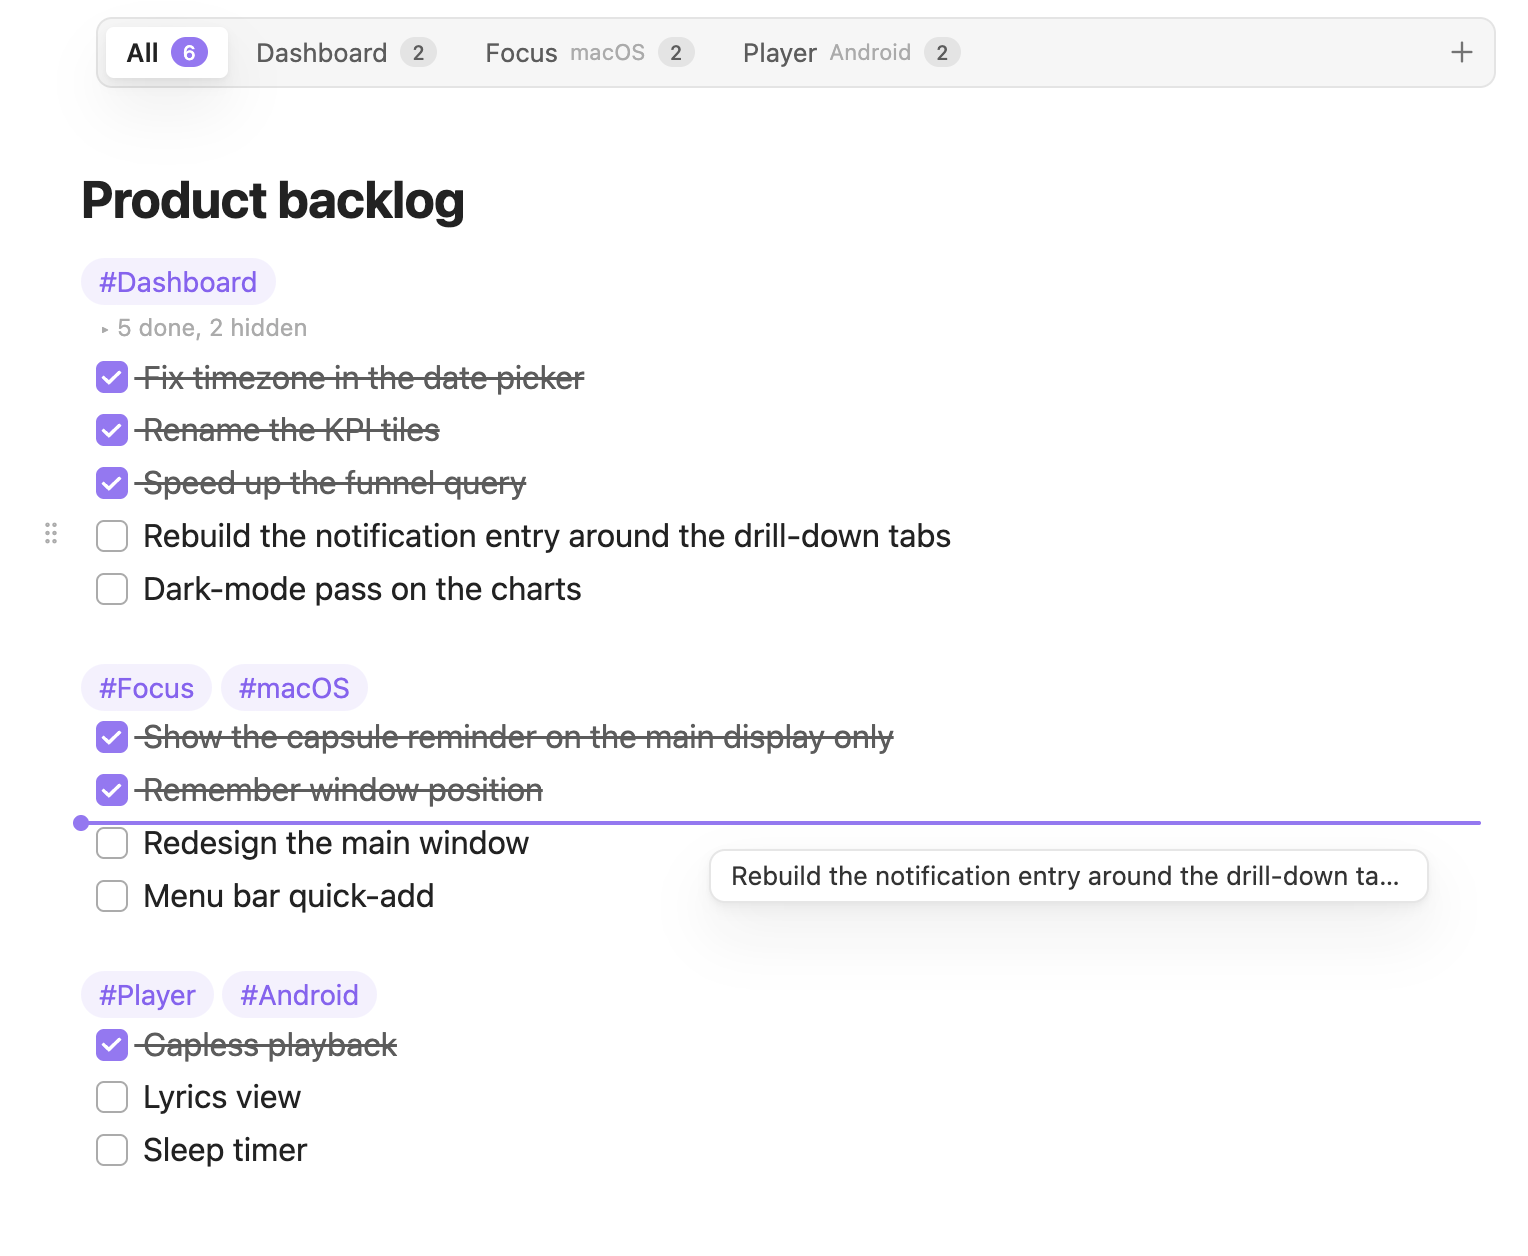
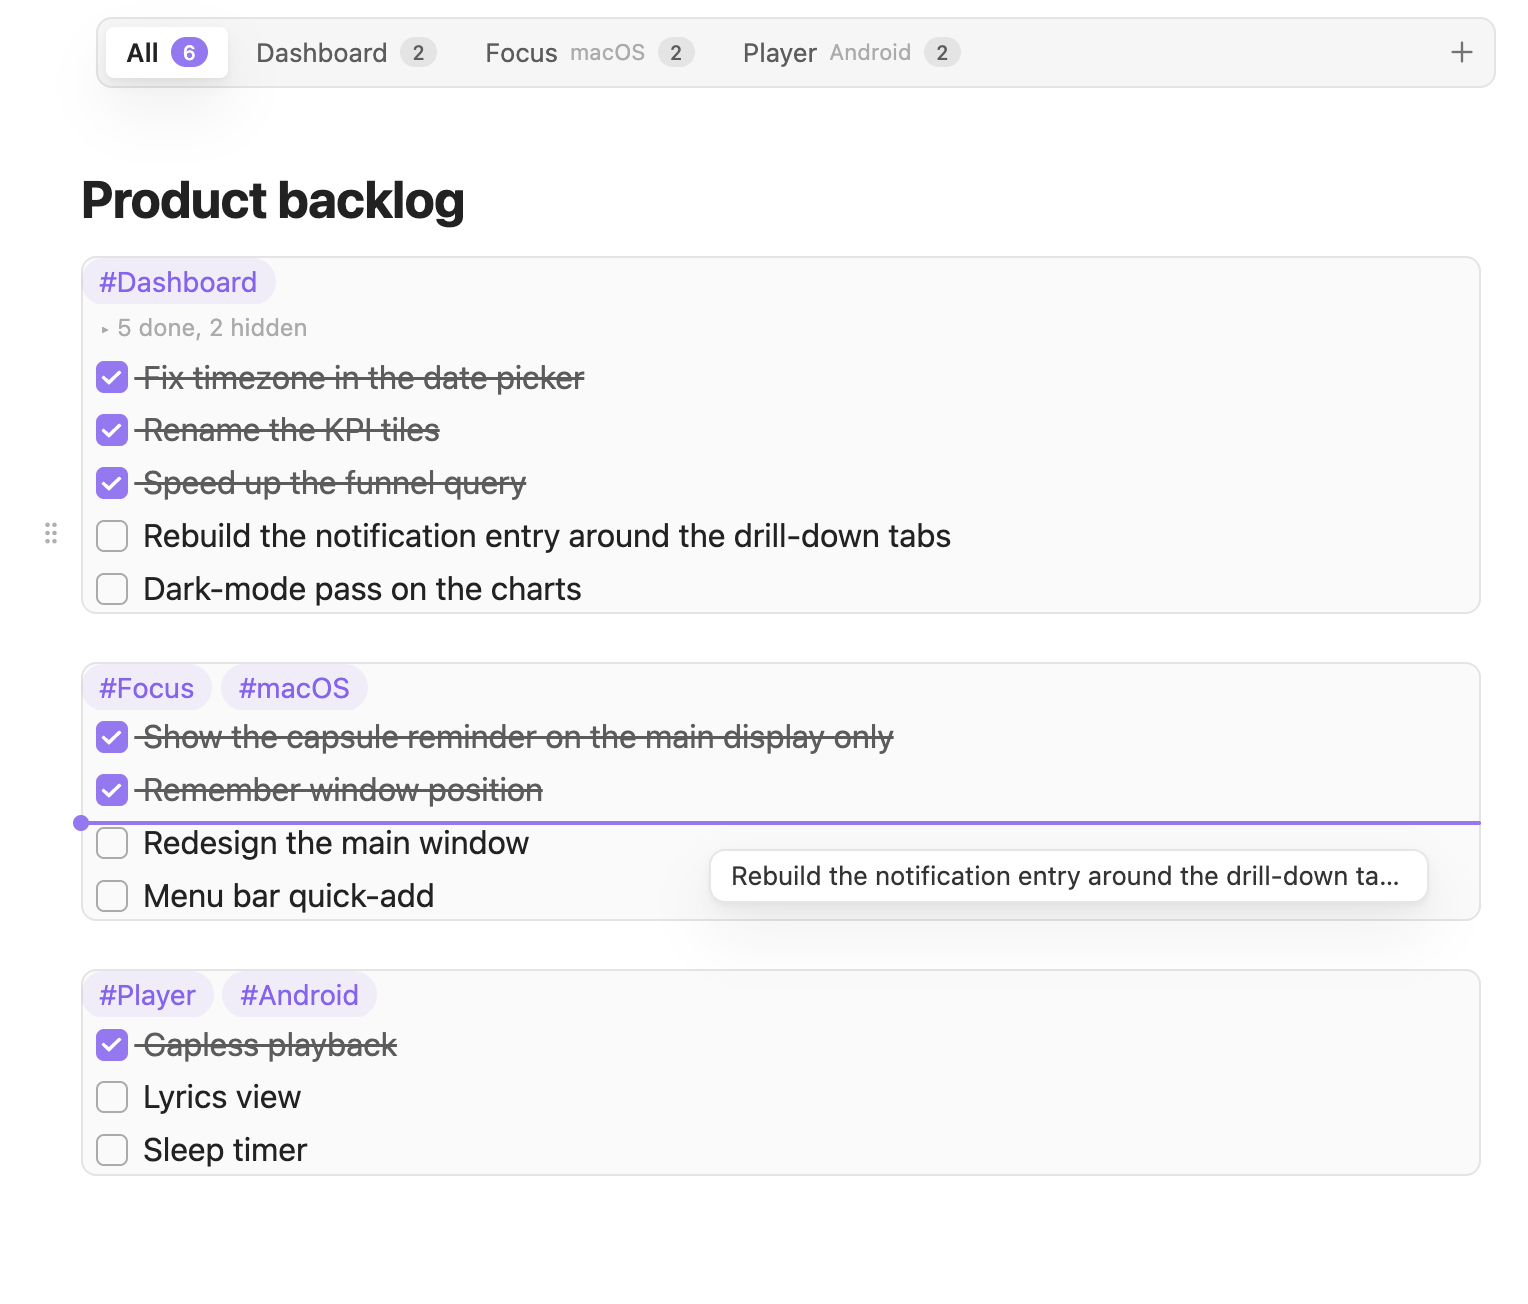
Draw each tag section on its own surface
Groups run together in the All view: nothing separates one tag section from
the next except a blank line. Give each one a light surface with a border and
rounded ends so the boundaries are obvious at a glance.

Neither view has an element wrapping a section, so the card is painted per
line (editing) and per rendered block (reading). Inset shadows draw the sides
without shifting any text, only the first and last piece round their corners,
and the reading-view blocks butt together so the note background never shows
through the middle. A collapsed fold line stands in for lines inside a
section, so it carries the surface too and closes the card when it ends one.

The release workflow's header comment still described the draft behaviour it
no longer has.

diff --git a/src/editor.ts b/src/editor.ts
@@ -1,7 +1,7 @@
 // Live Preview side: a StateField providing block-level replace decorations for "fold completed" and "tab filtering"
 import { EditorState, RangeSetBuilder, StateEffect, StateField, Transaction } from "@codemirror/state";
 import { Decoration, DecorationSet, EditorView, WidgetType } from "@codemirror/view";
-import { DocModel, parseDoc, sectionByKey } from "./model";
+import { DocModel, Section, isBlank, parseDoc, sectionByKey } from "./model";
 import { t } from "./i18n";
 
 export interface EditorConfig {
@@ -9,6 +9,8 @@ export interface EditorConfig {
   tabsEnabled: boolean;
   keepLast: number;
   activeTab: string | null;
+  /** Draw each tag section on its own surface so the groups read apart */
+  sectionSurface: boolean;
 }
 
 export const setConfigEffect = StateEffect.define<Partial<EditorConfig>>();
@@ -23,19 +25,27 @@ interface FieldValue {
   expanded: Set<string>;
   model: DocModel;
   decos: DecorationSet;
+  sectionDecos: DecorationSet;
 }
 
-const DEFAULT_CONFIG: EditorConfig = { foldEnabled: false, tabsEnabled: false, keepLast: 3, activeTab: null };
+const DEFAULT_CONFIG: EditorConfig = { foldEnabled: false, tabsEnabled: false, keepLast: 3, activeTab: null, sectionSurface: false };
+
+/** Last line of a section that still carries content; the blank lines after it are the gap to the next one */
+function sectionContentEnd(model: DocModel, section: Section): number {
+  let end = Math.min(section.end, model.lines.length - 1);
+  while (end > section.start && isBlank(model.lines[end])) end--;
+  return end;
+}
 
 class FoldToggleWidget extends WidgetType {
-  constructor(readonly runKey: string, readonly total: number, readonly hidden: number, readonly collapsed: boolean) {
+  constructor(readonly runKey: string, readonly total: number, readonly hidden: number, readonly collapsed: boolean, readonly surface: string) {
     super();
   }
   eq(other: FoldToggleWidget): boolean {
-    return other.runKey === this.runKey && other.total === this.total && other.hidden === this.hidden && other.collapsed === this.collapsed;
+    return other.runKey === this.runKey && other.total === this.total && other.hidden === this.hidden && other.collapsed === this.collapsed && other.surface === this.surface;
   }
   toDOM(view: EditorView): HTMLElement {
-    const el = createDiv({ cls: "tp-fold-toggle " + (this.collapsed ? "is-collapsed" : "is-expanded") });
+    const el = createDiv({ cls: "tp-fold-toggle " + (this.collapsed ? "is-collapsed" : "is-expanded") + this.surface });
     const arrow = el.createSpan({ cls: "tp-fold-arrow" });
     arrow.setText(this.collapsed ? "▸" : "▾");
     const label = el.createSpan({ cls: "tp-fold-label" });
@@ -84,6 +94,7 @@ function buildDecorations(state: EditorState, model: DocModel, config: EditorCon
   }
 
   // Fold completed runs
+  const surfaced = config.tabsEnabled && config.sectionSurface;
   if (config.foldEnabled && config.keepLast >= 0) {
     for (const run of model.runs) {
       if (run.items.length <= config.keepLast) continue;
@@ -91,6 +102,9 @@ function buildDecorations(state: EditorState, model: DocModel, config: EditorCon
       const hiddenItems = run.items.slice(0, run.items.length - config.keepLast);
       const from = lineFrom(hiddenItems[0].start);
       const to = lineTo(hiddenItems[hiddenItems.length - 1].end);
+      // The widget stands in for lines inside a section, so it carries the same surface
+      const last = hiddenItems[hiddenItems.length - 1].end;
+      const surface = !surfaced || !run.section ? "" : " tp-sec" + (last === sectionContentEnd(model, run.section) ? " tp-sec-bottom" : "");
       let cursorInside = false;
       for (const r of state.selection.ranges) {
         if (r.to >= from && r.from <= to) { cursorInside = true; break; }
@@ -100,14 +114,14 @@ function buildDecorations(state: EditorState, model: DocModel, config: EditorCon
         ranges.push({
           from,
           to: from,
-          deco: Decoration.widget({ widget: new FoldToggleWidget(run.key, run.items.length, hiddenItems.length, false), block: true, side: -1 }),
+          deco: Decoration.widget({ widget: new FoldToggleWidget(run.key, run.items.length, hiddenItems.length, false, surfaced && run.section ? " tp-sec" : ""), block: true, side: -1 }),
           side: -1,
         });
       } else {
         ranges.push({
           from,
           to,
-          deco: Decoration.replace({ widget: new FoldToggleWidget(run.key, run.items.length, hiddenItems.length, true), block: true }),
+          deco: Decoration.replace({ widget: new FoldToggleWidget(run.key, run.items.length, hiddenItems.length, true, surface), block: true }),
           side: 0,
         });
       }
@@ -119,11 +133,33 @@ function buildDecorations(state: EditorState, model: DocModel, config: EditorCon
   return builder.finish();
 }
 
+/** Line decorations that paint each tag section as one surface; kept apart from the replace decorations above so they never join the atomic ranges */
+function buildSectionDecorations(state: EditorState, model: DocModel, config: EditorConfig): DecorationSet {
+  if (!config.tabsEnabled || !config.sectionSurface || model.sections.length === 0) return Decoration.none;
+  const doc = state.doc;
+  const builder = new RangeSetBuilder<Decoration>();
+  for (const s of model.sections) {
+    const end = Math.min(sectionContentEnd(model, s), doc.lines - 1);
+    for (let l = s.start; l <= end; l++) {
+      const cls = "tp-sec" + (l === s.start ? " tp-sec-top" : "") + (l === end ? " tp-sec-bottom" : "");
+      const from = doc.line(l + 1).from;
+      builder.add(from, from, Decoration.line({ class: cls }));
+    }
+  }
+  return builder.finish();
+}
+
 export const taskPoolField = StateField.define<FieldValue>({
   create(state) {
     const model = parseDoc(docLines(state));
     const config = { ...DEFAULT_CONFIG };
-    return { config, expanded: new Set(), model, decos: buildDecorations(state, model, config, new Set()) };
+    return {
+      config,
+      expanded: new Set(),
+      model,
+      decos: buildDecorations(state, model, config, new Set()),
+      sectionDecos: buildSectionDecorations(state, model, config),
+    };
   },
   update(value, tr: Transaction) {
     let config = value.config;
@@ -143,10 +179,17 @@ export const taskPoolField = StateField.define<FieldValue>({
     }
     const model = tr.docChanged ? parseDoc(docLines(tr.state)) : value.model;
     if (!tr.docChanged && !changed && !tr.selection) return value;
-    return { config, expanded, model, decos: buildDecorations(tr.state, model, config, expanded) };
+    return {
+      config,
+      expanded,
+      model,
+      decos: buildDecorations(tr.state, model, config, expanded),
+      sectionDecos: tr.docChanged || changed ? buildSectionDecorations(tr.state, model, config) : value.sectionDecos,
+    };
   },
   provide: (f) => [
     EditorView.decorations.from(f, (v) => v.decos),
+    EditorView.decorations.from(f, (v) => v.sectionDecos),
     EditorView.atomicRanges.of((view) => view.state.field(f).decos),
   ],
 });

diff --git a/styles.css b/styles.css
@@ -74,6 +74,38 @@
 }
 body.tp-tab-dragging, body.tp-tab-dragging * { cursor: grabbing !important; user-select: none !important; }
 
+/* ===== Section surface ===== */
+/* Each tag section is painted as one card. There is no element wrapping a section in either view,
+   so the surface is drawn per line (editing) or per rendered block (reading): inset shadows give the
+   sides without shifting any text, and only the first and last piece round their corners. */
+.tp-sec {
+  background-color: var(--background-primary-alt);
+  box-shadow: inset 1px 0 0 var(--background-modifier-border), inset -1px 0 0 var(--background-modifier-border);
+}
+.tp-sec-top {
+  border-top-left-radius: var(--radius-m);
+  border-top-right-radius: var(--radius-m);
+  box-shadow: inset 1px 0 0 var(--background-modifier-border), inset -1px 0 0 var(--background-modifier-border), inset 0 1px 0 var(--background-modifier-border);
+}
+.tp-sec-bottom {
+  border-bottom-left-radius: var(--radius-m);
+  border-bottom-right-radius: var(--radius-m);
+  box-shadow: inset 1px 0 0 var(--background-modifier-border), inset -1px 0 0 var(--background-modifier-border), inset 0 -1px 0 var(--background-modifier-border);
+}
+.tp-sec-top.tp-sec-bottom {
+  border-radius: var(--radius-m);
+  box-shadow: inset 0 0 0 1px var(--background-modifier-border);
+}
+/* Editing view: pad the card away from its first and last line of text */
+.cm-line.tp-sec-top { padding-top: 6px; }
+.cm-line.tp-sec-bottom { padding-bottom: 6px; }
+/* Reading view: the blocks of one section must touch, or the note background shows through the card */
+.markdown-preview-view .tp-sec { margin-block: 0; padding-block: 2px; }
+.markdown-preview-view .tp-sec-top { margin-top: 14px; padding-top: 8px; }
+.markdown-preview-view .tp-sec-bottom { margin-bottom: 14px; padding-bottom: 8px; }
+.markdown-preview-view .tp-sec > :first-child { margin-top: 0; }
+.markdown-preview-view .tp-sec > :last-child { margin-bottom: 0; }
+
 /* ===== Fold completed ===== */
 .tp-fold-toggle {
   display: flex;
@@ -89,6 +121,8 @@ body.tp-tab-dragging, body.tp-tab-dragging * { cursor: grabbing !important; user
 .tp-fold-toggle:hover { color: var(--text-muted); }
 .tp-fold-arrow { display: inline-block; width: 12px; text-align: center; font-size: 0.9em; }
 .cm-content .tp-fold-toggle { padding-inline-start: 6px; }
+.tp-fold-toggle.tp-sec { padding-inline-start: 6px; }
+.tp-fold-toggle.tp-sec-bottom { padding-bottom: 6px; }
 .markdown-preview-view li.tp-fold-toggle { list-style: none; margin-inline-start: 0; }
 .markdown-preview-view li.tp-fold-toggle::marker { content: ""; }
 .markdown-preview-view li.tp-fold-toggle::before { display: none; }

diff --git a/src/reading.ts b/src/reading.ts
@@ -1,6 +1,6 @@
 // Reading view: a post-processor that hides sections outside the active tab and folds runs of completed items
 import { MarkdownPostProcessorContext } from "obsidian";
-import { DocModel, parseDoc, sectionByKey } from "./model";
+import { DocModel, Section, isBlank, parseDoc, sectionByKey } from "./model";
 import { t } from "./i18n";
 
 export interface ReadingHost {
@@ -8,7 +8,15 @@ export interface ReadingHost {
   isFoldEnabled(path: string): boolean;
   keepLast(): number;
   activeTab(path: string): string | null;
+  sectionSurface(): boolean;
   expanded: Set<string>;
+}
+
+/** Last line of a section that still carries content; the blank lines after it are the gap to the next one */
+function sectionContentEnd(model: DocModel, section: Section): number {
+  let end = Math.min(section.end, model.lines.length - 1);
+  while (end > section.start && isBlank(model.lines[end])) end--;
+  return end;
 }
 
 let cache: { text: string; model: DocModel } | null = null;
@@ -29,12 +37,21 @@ export function readingPostProcessor(host: ReadingHost) {
     if (tabs) {
       const info = ctx.getSectionInfo(el);
       const active = host.activeTab(path);
-      if (info && active) {
+      if (info) {
         const model = modelFor(info.text);
-        const section = sectionByKey(model, active);
+        const section = active ? sectionByKey(model, active) : null;
         if (section) {
           const hidden = !(info.lineEnd >= section.start && info.lineStart <= section.end);
           el.classList.toggle("tp-hidden", hidden);
+        }
+        // Paint the rendered blocks of a section as one surface; the pieces butt together into a single card
+        if (host.sectionSurface()) {
+          const own = model.sections.find((s) => info.lineStart >= s.start && info.lineStart <= s.end);
+          const end = own ? sectionContentEnd(model, own) : -1;
+          const inside = !!own && info.lineStart <= end;
+          el.classList.toggle("tp-sec", inside);
+          el.classList.toggle("tp-sec-top", inside && info.lineStart === own.start);
+          el.classList.toggle("tp-sec-bottom", inside && info.lineEnd >= end);
         }
       }
     }

diff --git a/src/main.ts b/src/main.ts
@@ -67,6 +67,7 @@ export default class TaskPoolPlugin extends Plugin {
         isFoldEnabled: (p) => this.scopeAllowsPath(this.settings.foldScope, p),
         keepLast: () => this.settings.keepLast,
         activeTab: (p) => this.settings.activeTabs[p] ?? null,
+        sectionSurface: () => this.settings.sectionSurface,
         expanded: this.readingExpanded,
       })
     );
@@ -226,8 +227,9 @@ export default class TaskPoolPlugin extends Plugin {
 
     if (hasField && cm) {
       const cur = getConfig(cm);
-      if (cur.tabsEnabled !== tabsEnabled || cur.foldEnabled !== foldEnabled || cur.keepLast !== this.settings.keepLast || cur.activeTab !== activeTab) {
-        cm.dispatch({ effects: setConfigEffect.of({ tabsEnabled, foldEnabled, keepLast: this.settings.keepLast, activeTab }) });
+      const sectionSurface = this.settings.sectionSurface;
+      if (cur.tabsEnabled !== tabsEnabled || cur.foldEnabled !== foldEnabled || cur.keepLast !== this.settings.keepLast || cur.activeTab !== activeTab || cur.sectionSurface !== sectionSurface) {
+        cm.dispatch({ effects: setConfigEffect.of({ tabsEnabled, foldEnabled, keepLast: this.settings.keepLast, activeTab, sectionSurface }) });
       }
     }
 

diff --git a/src/i18n.ts b/src/i18n.ts
@@ -47,6 +47,8 @@ const zh = {
   sTabsKey: "笔记属性键",
   sTabsKeyDesc: "属性设为 true 强制显示 Tab 栏，设为 false 强制隐藏",
   sShowCounts: "Tab 上显示未完成数",
+  sSectionSurface: "分区加底色",
+  sSectionSurfaceDesc: "给每个标签分区铺一层浅底和边框，在「全部」视图里分区之间一眼分得开",
   sDrag: "拖动",
   sDragScope: "生效范围",
   sDragScopeDesc: "在哪些笔记里显示列表项左侧的拖动手柄",
@@ -121,6 +123,8 @@ const en: typeof zh = {
   sTabsKey: "Property key",
   sTabsKeyDesc: "Set this property to true to force the tab bar on, or false to hide it",
   sShowCounts: "Show open count on tabs",
+  sSectionSurface: "Section background",
+  sSectionSurfaceDesc: "Give each tag section a light surface and border, so the groups read apart in the All view",
   sDrag: "Drag",
   sDragScope: "Scope",
   sDragScopeDesc: "Where the drag handle appears next to list items",

diff --git a/src/settings.ts b/src/settings.ts
@@ -13,6 +13,7 @@ export interface TaskPoolSettings {
   enabledPaths: string[];
   frontmatterKey: string;
   showCounts: boolean;
+  sectionSurface: boolean;
   dragScope: Scope;
   quickAddScope: Scope;
   autoArchive: boolean;
@@ -31,6 +32,7 @@ export const DEFAULT_SETTINGS: TaskPoolSettings = {
   enabledPaths: [],
   frontmatterKey: "task-tabs",
   showCounts: true,
+  sectionSurface: true,
   dragScope: "all",
   quickAddScope: "all",
   autoArchive: true,
@@ -124,6 +126,15 @@ export class TaskPoolSettingTab extends PluginSettingTab {
         await save();
       })
     );
+    new Setting(containerEl)
+      .setName(t.sSectionSurface)
+      .setDesc(t.sSectionSurfaceDesc)
+      .addToggle((tg) =>
+        tg.setValue(s.sectionSurface).onChange(async (v) => {
+          s.sectionSurface = v;
+          await save();
+        })
+      );
 
     new Setting(containerEl).setName(t.sPin).setHeading();
     new Setting(containerEl)

diff --git a/README.md b/README.md
@@ -14,7 +14,7 @@ Once a run of completed tasks grows past a limit (3 by default), the older ones 
 
 ### Tag sections become tabs
 
-Write a line that contains only tags, such as `#Focus #macOS`, and everything below it is a section. As soon as a note has two or more sections it gets a tab bar with open-task counts. Pick a tab to see just that product; `+` adds a task at the end of it. Drag a tab to a new spot in the bar and its whole section moves with it in the note. A path list or a `task-tabs` note property can force the bar on or off.
+Write a line that contains only tags, such as `#Focus #macOS`, and everything below it is a section. As soon as a note has two or more sections it gets a tab bar with open-task counts. Each section is drawn on its own light surface, so the groups read apart in the All view. Pick a tab to see just that product; `+` adds a task at the end of it. Drag a tab to a new spot in the bar and its whole section moves with it in the note. A path list or a `task-tabs` note property can force the bar on or off.
 
 ### Drag blocks like cards
 
@@ -71,6 +71,7 @@ List the notes you keep open all day. Their tabs are pinned automatically, shrin
 | Always enabled for | empty | One vault path per line |
 | Property key | `task-tabs` | `true` forces the tab bar on, `false` forces it off |
 | Show open count on tabs | On | |
+| Section background | On | Draw each tag section on a light surface with a border |
 | Drag scope | All notes | Same options as fold scope |
 | Quick add on blank lines | All notes | Where the `+` appears next to a blank line; same options as fold scope |
 | Pinned notes | empty | One vault path per line; "Pin / unpin current note" writes here too, and unpinning inside Obsidian removes the entry |
@@ -82,7 +83,7 @@ List the notes you keep open all day. Their tabs are pinned automatically, shrin
 ## Roadmap
 
 - **0.1** – first public release: folding, tabs, block dragging, re-sort on check, pinned notes.
-- **0.2** – reorderable tabs, quick add on blank lines, a clearer tab bar.
+- **0.2** – reorderable tabs, quick add on blank lines, sections on their own surface.
 - **0.x** – refinements driven by feedback: mobile drag tuning, more section actions, keyboard-only workflows. Minor versions add features, patch versions fix bugs.
 - **1.0** – listed in the Obsidian community plugin directory.
 

diff --git a/README.zh-CN.md b/README.zh-CN.md
@@ -14,7 +14,7 @@
 
 ### 标签分区变成 Tab
 
-一行只写标签，比如 `#Focus #macOS`，下面的内容就是一个分区。笔记里有两个以上分区时正文上方出现 Tab 栏，带未完成数；点某个 Tab 只看这一个产品，`+` 在它末尾新增待办。把 Tab 拖到别的位置，对应的整个分区也会在笔记里跟着挪过去。也可以用路径列表或 `task-tabs` 属性强制开关。
+一行只写标签，比如 `#Focus #macOS`，下面的内容就是一个分区。笔记里有两个以上分区时正文上方出现 Tab 栏，带未完成数；每个分区自带一层浅底，在「全部」视图里一眼分得开。点某个 Tab 只看这一个产品，`+` 在它末尾新增待办。把 Tab 拖到别的位置，对应的整个分区也会在笔记里跟着挪过去。也可以用路径列表或 `task-tabs` 属性强制开关。
 
 ### 像卡片一样拖动
 
@@ -71,6 +71,7 @@
 | 始终启用的笔记 | 空 | 每行一个库内路径 |
 | 笔记属性键 | `task-tabs` | 属性为 true 强制显示，false 强制隐藏 |
 | Tab 上显示未完成数 | 开 | |
+| 分区加底色 | 开 | 给每个标签分区铺一层浅底和边框 |
 | 拖动生效范围 | 所有笔记 | 同上 |
 | 空行快捷新增 | 所有笔记 | 在哪些笔记的空行左侧显示 `+`，选项同上 |
 | 固定的笔记 | 空 | 每行一个库内路径；命令「固定 / 取消固定当前笔记」也会写到这里，在 Obsidian 里手动取消固定则会从这里移除 |
@@ -82,7 +83,7 @@
 ## 路线图
 
 - **0.1** – 首个公开版本：折叠、Tab、块拖动、勾选归位、常驻标签页。
-- **0.2** – Tab 可拖动排序、空行快捷新增、Tab 栏样式更清楚。
+- **0.2** – Tab 可拖动排序、空行快捷新增、分区自带浅底。
 - **0.x** – 根据反馈打磨：移动端拖动手感、更多分区操作、纯键盘流程。次版本号加功能，修订号修 bug。
 - **1.0** – 进入 Obsidian 社区插件目录。
 

diff --git a/CHANGELOG.md b/CHANGELOG.md
@@ -5,6 +5,7 @@
 - Reorder sections by dragging their tabs: drop a tab between two others and the section moves with it in the note
 - A plus appears in the gutter of a blank line; clicking it turns the line into a task, indented like the list above, for when the cursor did not arrive there from another task
 - Tasks with no text are left out of the tab counts, so a checkbox you are still writing does not show up as an open task
+- Each tag section is drawn on a light surface with a border, so the groups read apart in the All view; the fold line inside a section is part of the same card. Turn it off with "Section background"
 - The tab bar now sits on a tinted surface with the active tab lifted off it, so it reads as one block instead of floating over the note
 
 ## 0.1.1 - 2026-09-18
